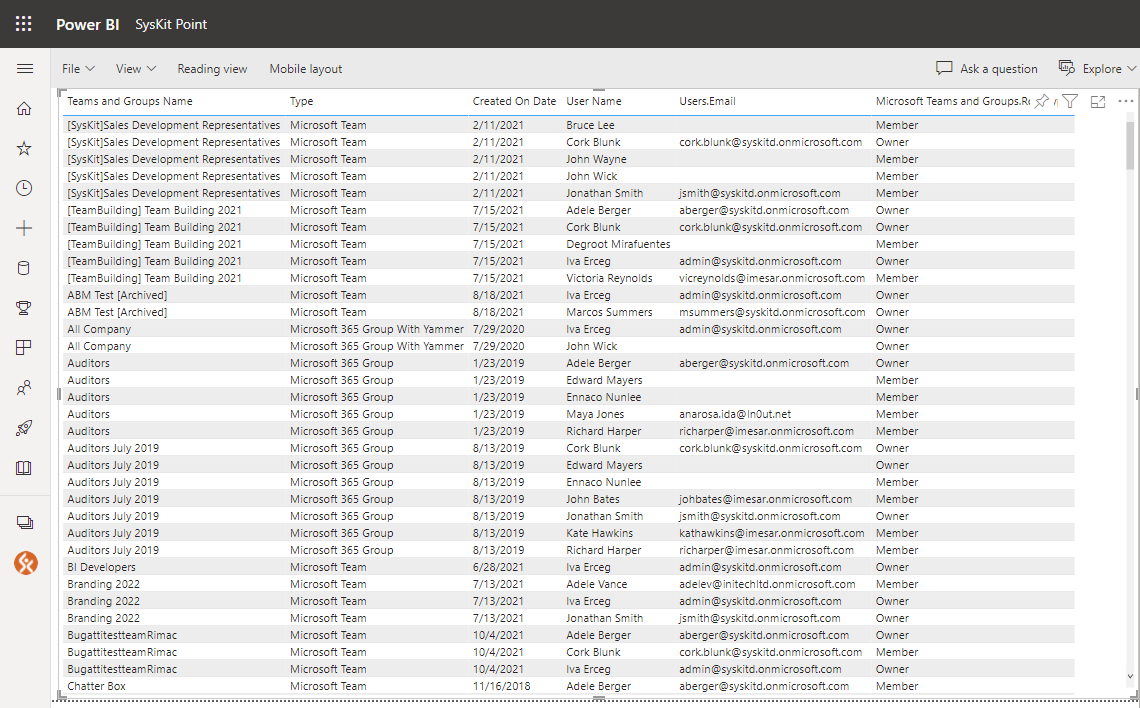
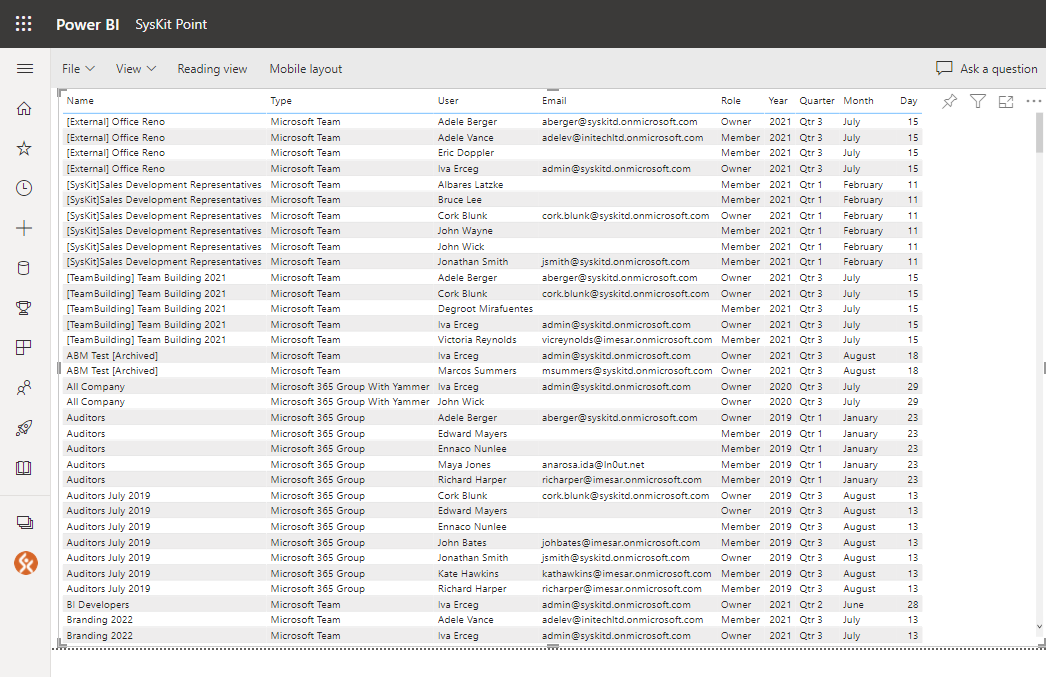
create custom reports  - pt 2

diff --git a/power-bi-app/create-custom-reports.md b/power-bi-app/create-custom-reports.md
@@ -1,12 +1,10 @@
 ---
-description: This article provides examples on how to create custom reports in SysKit Power BI workspace.
+description: This article provides an example of creating a custom report in the SysKit Power BI workspace.
 ---
 
 # Create Custom Reports in SysKit Power BI Workspace
 
-This article will guide you through the creation of custom reports in SysKit Power BI workspace. 2 custom reports examples are given:
-* **New Teams & Groups** 
-* **Inactive Teams & Groups** 
+This article will guide you through creating a custom report in the SysKit Power BI workspace.
 
 {% hint style="warning" %}
 **Please note!**
@@ -22,19 +20,19 @@ Follow these steps to access SysKit Point Workspace:
 
 ![Accessing SysKit Point Workspace](../.gitbook/assets/create-custom-reports_access-workspace.png)
 
-New screen opens showing you the **SysKit Point dataset** and **SysKit Point report** inside SysKit Point workspace.
+A new screen opens, showing you the **SysKit Point dataset** and **SysKit Point report** inside the SysKit Point workspace.
 
 ![Accessing SysKit Point Workspace](../.gitbook/assets/create-custom-reports_syskit-point-workspace.png)
 
-To create a new report based on available SysKit Point dataset:
-* **mousover the SysKit Point dataset and click the More options icon (1)**
+To create a new report based on the available SysKit Point dataset:
+* **mouseover the SysKit Point dataset and click the More options icon (1)**
 * **click the Create report option (2)** from the displayed menu
 
 ![Create report](../.gitbook/assets/create-custom-reports_create-report.png)
 
 ## Build Reports
 
-After clicking the Create report option, a new screen opens providing you with all tools needed to build a report. 
+After clicking the Create report option, a new screen opens, providing you with all tools needed to build a report. 
 The following **main control panes and options are available**:
 * **Filters (1)** - you can drag fields to this section and select which filters are applied to visuals, a single page, or all pages
 * **Visualizations (2)** - enables selection of visuals to be added to the page and their configuration
@@ -51,9 +49,9 @@ Let's start by adding a table. To do so:
 ![Adding a Table Visual](../.gitbook/assets/create-custom-reports_table.png)
 
 Next, the table needs to be populated with appropriate fields. To add fields:
-* **find wanted fields by entering a term in the search input field(1)**; you can also scroll an find fields in appropriate tables
-* **select (2) or drag and drop (3) one or more fields from the Fields pane to the Table visual**
-* **selected field appears in the Table (4)**
+* **find wanted fields by entering a term in the search input field(1)**; you can also scroll and find fields in appropriate tables
+* **select (2) or drag and drop (3) one or more fields from the Fields pane to the table visual**
+* **selected field appears in the table (4)**
 
 ![Adding Fields](../.gitbook/assets/create-custom-reports_fields.png)
 
@@ -71,78 +69,17 @@ The image below shows the report after adding all mentioned fields.
 
 {% hint style="info" %}
 **Tip!**
-You can rename fields by double clicking the current name in the Visualizations pane.
+You can rename fields by double-clicking the current name in the Visualizations pane.
 {% endhint %}
 
-The last thing left to do is to **filter the report data** to show data that meets certain criteria.
-Here, we're dealing with a report that shows new Teams and Groups. Therefore, only Teams and Groups with Created On date within the last 120 days or less should be displayed.
+The last thing left to do is to **filter the report data** to show new Teams and Groups only.
+To filter the report:
+* **select the Created On Date option (1)** instead of **Date Hierarchy** - this will change date display from multiple columns into a single date column 
+* **adjust the filter settings for the Created On Date field (2)** - here, you can adjust the settings to suit your specific business needs
+* **adjust the filter settings for the Role field (3)** - select Owner role only for the report to show Teams and Groups along with owners
 
-To filter the report **click the Created On field (1)**. 
-Here you can **choose between different filter types and additional options** which can help you modify the report to suit your business needs
+![Filters](../.gitbook/assets/create-custom-reports_filtered-report.png)
 
+Below, you can see the final look of the created report.
 
-
-On the first page, we start to: 
-
-Add a table  from the Visualizations tab. 
-
-Add the following Fields to the table: 
-
-[Microsoft Teams and Groups].Display Name 
-
-[Microsoft Teams and Groups].Group Type 
-
-[Microsoft Teams and Groups].Created On Date 
-
-[Microsoft Teams and Groups <-> Users].Users.Display Name 
-
-[Microsoft Teams and Groups <-> Users].Users.Email 
-
-[Microsoft Teams and Groups <-> Users].Microsoft Teams and Groups.Role Type 
-
-Tip: use the search bar on top of the Fields plane to identify which fields are available, based on the name. 
-
-
-On the visualizations plane, let’s rename the Fields: 
-
-Display Name -> Team 
-
-[Microsoft Teams and Groups].Group Type -> Type 
-
-Users.Display Name -> Users Name, 
-
-Users.Email -> Email, 
-
-Microsoft Teams and Groups.Role Type -> User Type 
-
- 
-
-At this point, our table should look like this: 
-
-
-Note: the Date can be displayed in a date hierarchy (as in the figure) or one-liners. For this, select the Created on Date and change to the field itself. 
-
-Final result. 
-
-
-Filter Page for Teams, Owners, and Creation Date: 
-
-expand the Filter Tab and drag it into:  
-
-[Microsoft Teams and Groups].Type, 
-
-select Microsoft Team 
-
-[Microsoft Teams and Groups <-> Users].Microsoft Teams and Groups.Role Type 
-
-select Owner. 
-
-[Microsoft Teams and Groups].Created On Date 
-
-Select Filter Type - Relative Date and customize the filter for the time interval that better suits your business needs. 
-
- 
-
-This is the final look of the Report: 
-
-## Example: Inactive Teams & Groups Report
+![Filtered Report](../.gitbook/assets/create-custom-reports_final-report.png)
